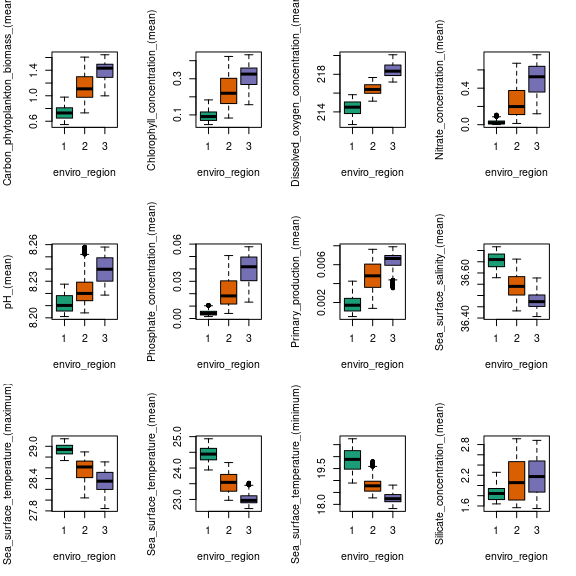
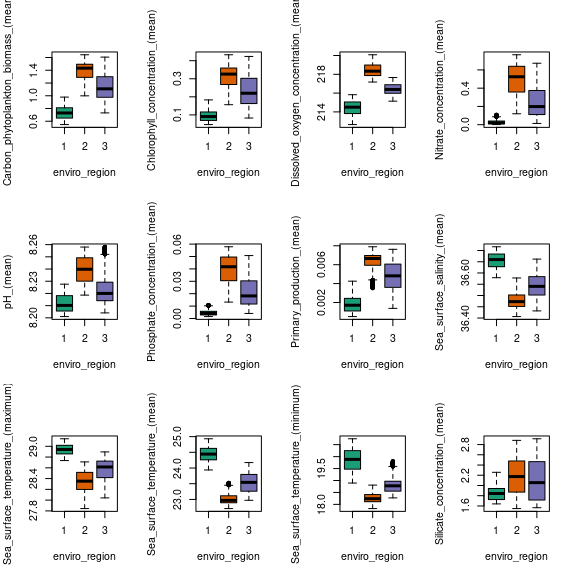
updates to enviro_regions and bathyemtry

diff --git a/README.md b/README.md
@@ -135,6 +135,7 @@ using a function borrowed from the `marmap` package.
 
 ``` r
 bathymetry <- get_bathymetry(area_polygon = bermuda_eez, planning_grid = planning_grid, keep = FALSE)
+#> [1] 300
 #> Querying NOAA database ...
 #> This may take seconds to minutes, depending on grid size
 #> x1 = -68.9 y1 = 28.9 x2 = -60.7 y2 = 35.8 ncell.lon = 492 ncell.lat = 414
@@ -261,14 +262,19 @@ al. 2020](https://doi.org/10.1111/ddi.13183)
 
 ``` r
 #cluster the data
-enviro_regions <- get_enviro_regions(area_polygon = bermuda_eez, planning_grid = planning_grid, num_clusters = 3)
+#start_time <- Sys.time()
+enviro_regions <- get_enviro_regions(area_polygon = bermuda_eez, planning_grid = planning_grid)
 ```
 
 <img src="man/figures/README-environmental regions-1.png" width="600" />
 
 ``` r
+#end_time <- Sys.time()-start_time
+```
+
+``` r
 #plot
-terra::plot(enviro_regions, col = palette.colors(n = terra::minmax(enviro_regions)[2], palette = 'Dark2'), axes = FALSE)
+terra::plot(enviro_regions, col = "forestgreen", axes = FALSE, legend =FALSE, fun = function(){terra::lines(terra::vect(bermuda_eez_projected))})
 ```
 
 <img src="man/figures/README-unnamed-chunk-5-1.png" width="600" />
